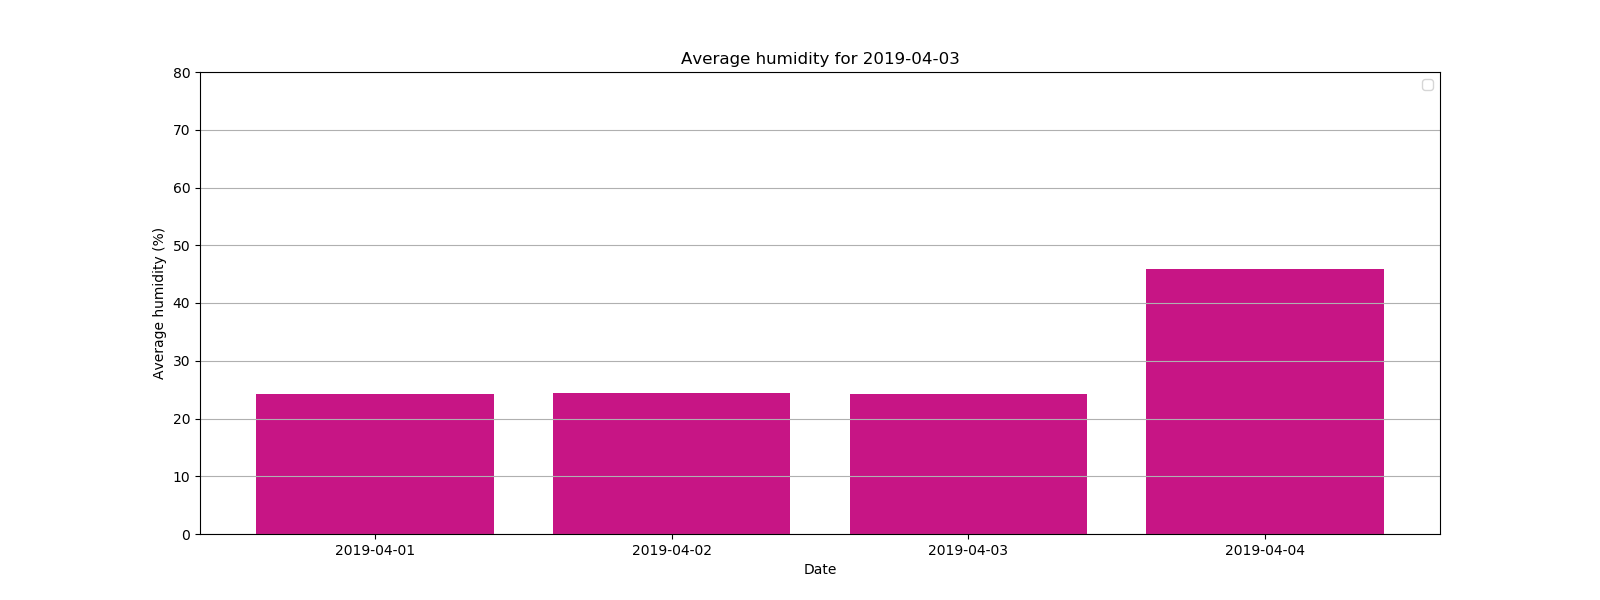
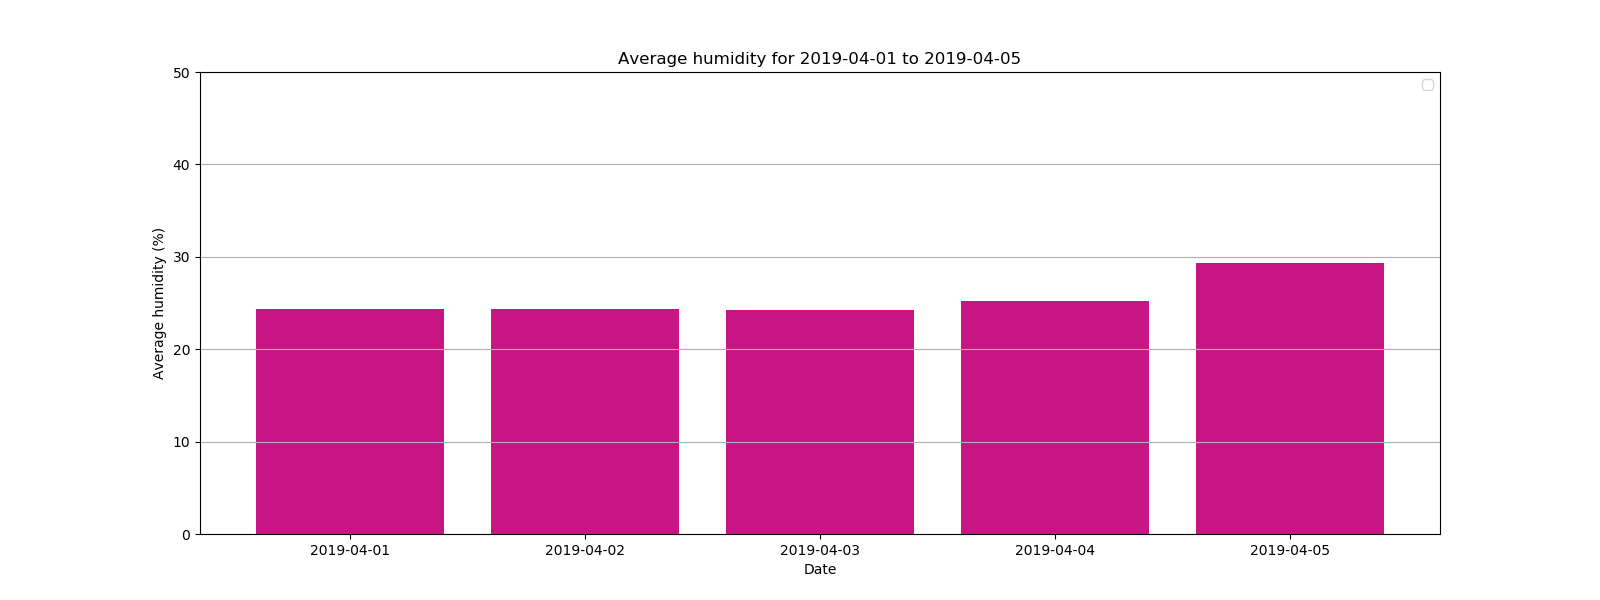
Fix bugs analytics.py
The Bokeh graphs were generated wrong for some strange reasons.

diff --git a/TemperaturePlot.html b/TemperaturePlot.html
@@ -35,14 +35,14 @@
           
           
             
-              <div class="bk-root" id="2346ce27-380c-4c90-b781-9f3c9e9352e3" data-root-id="1002"></div>
+              <div class="bk-root" id="b69190da-4fe5-41ce-8f5e-b45b0c71e5a8" data-root-id="1002"></div>
             
           
         
       
       
         <script type="application/json" id="1323">
-          {"60678b93-6dfc-4e05-99c6-5ec13dd11da1":{"roots":{"references":[{"attributes":{},"id":"1025","type":"SaveTool"},{"attributes":{"months":[0,2,4,6,8,10]},"id":"1057","type":"MonthsTicker"},{"attributes":{"line_color":"#1f77b4","line_width":2,"x":{"field":"x"},"y":{"field":"y"}},"id":"1040","type":"Line"},{"attributes":{},"id":"1026","type":"ResetTool"},{"attributes":{"months":[0,4,8]},"id":"1058","type":"MonthsTicker"},{"attributes":{},"id":"1027","type":"HelpTool"},{"attributes":{"callback":null},"id":"1004","type":"DataRange1d"},{"attributes":{"months":[0,6]},"id":"1059","type":"MonthsTicker"},{"attributes":{"callback":null},"id":"1006","type":"DataRange1d"},{"attributes":{"active_drag":"auto","active_inspect":"auto","active_multi":null,"active_scroll":"auto","active_tap":"auto","tools":[{"id":"1022","type":"PanTool"},{"id":"1023","type":"WheelZoomTool"},{"id":"1024","type":"BoxZoomTool"},{"id":"1025","type":"SaveTool"},{"id":"1026","type":"ResetTool"},{"id":"1027","type":"HelpTool"}]},"id":"1028","type":"Toolbar"},{"attributes":{},"id":"1060","type":"YearsTicker"},{"attributes":{"line_alpha":0.1,"line_color":"#1f77b4","line_width":2,"x":{"field":"x"},"y":{"field":"y"}},"id":"1041","type":"Line"},{"attributes":{},"id":"1105","type":"UnionRenderers"},{"attributes":{"mantissas":[1,2,5],"max_interval":500.0,"num_minor_ticks":0},"id":"1061","type":"AdaptiveTicker"},{"attributes":{"bottom_units":"screen","fill_alpha":{"value":0.5},"fill_color":{"value":"lightgrey"},"left_units":"screen","level":"overlay","line_alpha":{"value":1.0},"line_color":{"value":"black"},"line_dash":[4,4],"line_width":{"value":2},"plot":null,"render_mode":"css","right_units":"screen","top_units":"screen"},"id":"1030","type":"BoxAnnotation"},{"attributes":{},"id":"1008","type":"LinearScale"},{"attributes":{},"id":"1010","type":"LinearScale"},{"attributes":{"base":60,"mantissas":[1,2,5,10,15,20,30],"max_interval":1800000.0,"min_interval":1000.0,"num_minor_ticks":0},"id":"1062","type":"AdaptiveTicker"},{"attributes":{"data_source":{"id":"1039","type":"ColumnDataSource"},"glyph":{"id":"1040","type":"Line"},"hover_glyph":null,"muted_glyph":null,"nonselection_glyph":{"id":"1041","type":"Line"},"selection_glyph":null,"view":{"id":"1043","type":"CDSView"}},"id":"1042","type":"GlyphRenderer"},{"attributes":{"axis_label":"Temperature (*C)","formatter":{"id":"1047","type":"BasicTickFormatter"},"plot":{"id":"1002","subtype":"Figure","type":"Plot"},"ticker":{"id":"1018","type":"BasicTicker"}},"id":"1017","type":"LinearAxis"},{"attributes":{"axis_label":"Time","formatter":{"id":"1045","type":"DatetimeTickFormatter"},"plot":{"id":"1002","subtype":"Figure","type":"Plot"},"ticker":{"id":"1037","type":"DatetimeTicker"}},"id":"1012","type":"DatetimeAxis"},{"attributes":{"base":24,"mantissas":[1,2,4,6,8,12],"max_interval":43200000.0,"min_interval":3600000.0,"num_minor_ticks":0},"id":"1063","type":"AdaptiveTicker"},{"attributes":{"source":{"id":"1039","type":"ColumnDataSource"}},"id":"1043","type":"CDSView"},{"attributes":{"num_minor_ticks":5,"tickers":[{"id":"1061","type":"AdaptiveTicker"},{"id":"1062","type":"AdaptiveTicker"},{"id":"1063","type":"AdaptiveTicker"},{"id":"1064","type":"DaysTicker"},{"id":"1065","type":"DaysTicker"},{"id":"1066","type":"DaysTicker"},{"id":"1067","type":"DaysTicker"},{"id":"1068","type":"MonthsTicker"},{"id":"1069","type":"MonthsTicker"},{"id":"1070","type":"MonthsTicker"},{"id":"1071","type":"MonthsTicker"},{"id":"1072","type":"YearsTicker"}]},"id":"1013","type":"DatetimeTicker"},{"attributes":{"days":[1,2,3,4,5,6,7,8,9,10,11,12,13,14,15,16,17,18,19,20,21,22,23,24,25,26,27,28,29,30,31]},"id":"1064","type":"DaysTicker"},{"attributes":{},"id":"1045","type":"DatetimeTickFormatter"},{"attributes":{"items":[{"id":"1074","type":"LegendItem"}],"plot":{"id":"1002","subtype":"Figure","type":"Plot"}},"id":"1073","type":"Legend"},{"attributes":{"days":[1,4,7,10,13,16,19,22,25,28]},"id":"1065","type":"DaysTicker"},{"attributes":{},"id":"1047","type":"BasicTickFormatter"},{"attributes":{"days":[1,15]},"id":"1055","type":"DaysTicker"},{"attributes":{"plot":{"id":"1002","subtype":"Figure","type":"Plot"},"ticker":{"id":"1013","type":"DatetimeTicker"}},"id":"1016","type":"Grid"},{"attributes":{"days":[1,8,15,22]},"id":"1066","type":"DaysTicker"},{"attributes":{"mantissas":[1,2,5],"max_interval":500.0,"num_minor_ticks":0},"id":"1049","type":"AdaptiveTicker"},{"attributes":{},"id":"1018","type":"BasicTicker"},{"attributes":{"days":[1,15]},"id":"1067","type":"DaysTicker"},{"attributes":{"base":60,"mantissas":[1,2,5,10,15,20,30],"max_interval":1800000.0,"min_interval":1000.0,"num_minor_ticks":0},"id":"1050","type":"AdaptiveTicker"},{"attributes":{"dimension":1,"plot":{"id":"1002","subtype":"Figure","type":"Plot"},"ticker":{"id":"1018","type":"BasicTicker"}},"id":"1021","type":"Grid"},{"attributes":{"months":[0,1,2,3,4,5,6,7,8,9,10,11]},"id":"1068","type":"MonthsTicker"},{"attributes":{},"id":"1104","type":"Selection"},{"attributes":{"base":24,"mantissas":[1,2,4,6,8,12],"max_interval":43200000.0,"min_interval":3600000.0,"num_minor_ticks":0},"id":"1051","type":"AdaptiveTicker"},{"attributes":{"months":[0,2,4,6,8,10]},"id":"1069","type":"MonthsTicker"},{"attributes":{"label":{"value":"Temperature"},"renderers":[{"id":"1042","type":"GlyphRenderer"}]},"id":"1074","type":"LegendItem"},{"attributes":{"callback":null,"data":{"x":[30635.31,3613710.801,39613475.917,43218231.655,46822681.92,50426838.121,54031435.564,57636356.785,61240741.645,64845275.075,68450129.599,75647026.644],"y":[48.83,49.07,46.27,48.92,48.51,49.13,49.84,48.47,49.84,51.29,48.45,51.08]},"selected":{"id":"1104","type":"Selection"},"selection_policy":{"id":"1105","type":"UnionRenderers"}},"id":"1039","type":"ColumnDataSource"},{"attributes":{"days":[1,2,3,4,5,6,7,8,9,10,11,12,13,14,15,16,17,18,19,20,21,22,23,24,25,26,27,28,29,30,31]},"id":"1052","type":"DaysTicker"},{"attributes":{"months":[0,4,8]},"id":"1070","type":"MonthsTicker"},{"attributes":{"days":[1,4,7,10,13,16,19,22,25,28]},"id":"1053","type":"DaysTicker"},{"attributes":{"desired_num_ticks":24,"tickers":[{"id":"1049","type":"AdaptiveTicker"},{"id":"1050","type":"AdaptiveTicker"},{"id":"1051","type":"AdaptiveTicker"},{"id":"1052","type":"DaysTicker"},{"id":"1053","type":"DaysTicker"},{"id":"1054","type":"DaysTicker"},{"id":"1055","type":"DaysTicker"},{"id":"1056","type":"MonthsTicker"},{"id":"1057","type":"MonthsTicker"},{"id":"1058","type":"MonthsTicker"},{"id":"1059","type":"MonthsTicker"},{"id":"1060","type":"YearsTicker"}]},"id":"1037","type":"DatetimeTicker"},{"attributes":{"months":[0,6]},"id":"1071","type":"MonthsTicker"},{"attributes":{},"id":"1022","type":"PanTool"},{"attributes":{"below":[{"id":"1012","type":"DatetimeAxis"}],"left":[{"id":"1017","type":"LinearAxis"}],"plot_width":1200,"renderers":[{"id":"1012","type":"DatetimeAxis"},{"id":"1016","type":"Grid"},{"id":"1017","type":"LinearAxis"},{"id":"1021","type":"Grid"},{"id":"1030","type":"BoxAnnotation"},{"id":"1073","type":"Legend"},{"id":"1042","type":"GlyphRenderer"}],"title":{"id":"1001","type":"Title"},"toolbar":{"id":"1028","type":"Toolbar"},"x_range":{"id":"1004","type":"DataRange1d"},"x_scale":{"id":"1008","type":"LinearScale"},"y_range":{"id":"1006","type":"DataRange1d"},"y_scale":{"id":"1010","type":"LinearScale"}},"id":"1002","subtype":"Figure","type":"Plot"},{"attributes":{"days":[1,8,15,22]},"id":"1054","type":"DaysTicker"},{"attributes":{},"id":"1072","type":"YearsTicker"},{"attributes":{},"id":"1023","type":"WheelZoomTool"},{"attributes":{"plot":null,"text":"Temperature for 2019-04-03"},"id":"1001","type":"Title"},{"attributes":{"overlay":{"id":"1030","type":"BoxAnnotation"}},"id":"1024","type":"BoxZoomTool"},{"attributes":{"months":[0,1,2,3,4,5,6,7,8,9,10,11]},"id":"1056","type":"MonthsTicker"}],"root_ids":["1002"]},"title":"Bokeh Application","version":"1.0.4"}}
+          {"9a07668c-2317-41b9-8345-19de139a06cf":{"roots":{"references":[{"attributes":{"months":[0,4,8]},"id":"1058","type":"MonthsTicker"},{"attributes":{},"id":"1026","type":"ResetTool"},{"attributes":{"callback":null},"id":"1004","type":"DataRange1d"},{"attributes":{"months":[0,6]},"id":"1059","type":"MonthsTicker"},{"attributes":{},"id":"1018","type":"BasicTicker"},{"attributes":{},"id":"1027","type":"HelpTool"},{"attributes":{"callback":null,"end":70,"start":0},"id":"1006","type":"DataRange1d"},{"attributes":{},"id":"1060","type":"YearsTicker"},{"attributes":{"active_drag":"auto","active_inspect":"auto","active_multi":null,"active_scroll":"auto","active_tap":"auto","tools":[{"id":"1022","type":"PanTool"},{"id":"1023","type":"WheelZoomTool"},{"id":"1024","type":"BoxZoomTool"},{"id":"1025","type":"SaveTool"},{"id":"1026","type":"ResetTool"},{"id":"1027","type":"HelpTool"}]},"id":"1028","type":"Toolbar"},{"attributes":{},"id":"1104","type":"UnionRenderers"},{"attributes":{"line_alpha":0.1,"line_color":"#1f77b4","line_width":2,"x":{"field":"x"},"y":{"field":"y"}},"id":"1041","type":"Line"},{"attributes":{"mantissas":[1,2,5],"max_interval":500.0,"num_minor_ticks":0},"id":"1061","type":"AdaptiveTicker"},{"attributes":{},"id":"1105","type":"Selection"},{"attributes":{},"id":"1008","type":"LinearScale"},{"attributes":{"bottom_units":"screen","fill_alpha":{"value":0.5},"fill_color":{"value":"lightgrey"},"left_units":"screen","level":"overlay","line_alpha":{"value":1.0},"line_color":{"value":"black"},"line_dash":[4,4],"line_width":{"value":2},"plot":null,"render_mode":"css","right_units":"screen","top_units":"screen"},"id":"1030","type":"BoxAnnotation"},{"attributes":{"mantissas":[1,2,5],"max_interval":500.0,"num_minor_ticks":0},"id":"1049","type":"AdaptiveTicker"},{"attributes":{},"id":"1010","type":"LinearScale"},{"attributes":{"base":60,"mantissas":[1,2,5,10,15,20,30],"max_interval":1800000.0,"min_interval":1000.0,"num_minor_ticks":0},"id":"1062","type":"AdaptiveTicker"},{"attributes":{"data_source":{"id":"1039","type":"ColumnDataSource"},"glyph":{"id":"1040","type":"Line"},"hover_glyph":null,"muted_glyph":null,"nonselection_glyph":{"id":"1041","type":"Line"},"selection_glyph":null,"view":{"id":"1043","type":"CDSView"}},"id":"1042","type":"GlyphRenderer"},{"attributes":{"axis_label":"Time","formatter":{"id":"1047","type":"DatetimeTickFormatter"},"plot":{"id":"1002","subtype":"Figure","type":"Plot"},"ticker":{"id":"1037","type":"DatetimeTicker"}},"id":"1012","type":"DatetimeAxis"},{"attributes":{"base":24,"mantissas":[1,2,4,6,8,12],"max_interval":43200000.0,"min_interval":3600000.0,"num_minor_ticks":0},"id":"1063","type":"AdaptiveTicker"},{"attributes":{"source":{"id":"1039","type":"ColumnDataSource"}},"id":"1043","type":"CDSView"},{"attributes":{"num_minor_ticks":5,"tickers":[{"id":"1061","type":"AdaptiveTicker"},{"id":"1062","type":"AdaptiveTicker"},{"id":"1063","type":"AdaptiveTicker"},{"id":"1064","type":"DaysTicker"},{"id":"1065","type":"DaysTicker"},{"id":"1066","type":"DaysTicker"},{"id":"1067","type":"DaysTicker"},{"id":"1068","type":"MonthsTicker"},{"id":"1069","type":"MonthsTicker"},{"id":"1070","type":"MonthsTicker"},{"id":"1071","type":"MonthsTicker"},{"id":"1072","type":"YearsTicker"}]},"id":"1013","type":"DatetimeTicker"},{"attributes":{"days":[1,2,3,4,5,6,7,8,9,10,11,12,13,14,15,16,17,18,19,20,21,22,23,24,25,26,27,28,29,30,31]},"id":"1064","type":"DaysTicker"},{"attributes":{"label":{"value":"Temperature"},"renderers":[{"id":"1042","type":"GlyphRenderer"}]},"id":"1074","type":"LegendItem"},{"attributes":{},"id":"1045","type":"BasicTickFormatter"},{"attributes":{"days":[1,4,7,10,13,16,19,22,25,28]},"id":"1065","type":"DaysTicker"},{"attributes":{"plot":{"id":"1002","subtype":"Figure","type":"Plot"},"ticker":{"id":"1013","type":"DatetimeTicker"}},"id":"1016","type":"Grid"},{"attributes":{},"id":"1047","type":"DatetimeTickFormatter"},{"attributes":{"days":[1,8,15,22]},"id":"1066","type":"DaysTicker"},{"attributes":{"axis_label":"Temperature (*C)","formatter":{"id":"1045","type":"BasicTickFormatter"},"plot":{"id":"1002","subtype":"Figure","type":"Plot"},"ticker":{"id":"1018","type":"BasicTicker"}},"id":"1017","type":"LinearAxis"},{"attributes":{"days":[1,15]},"id":"1067","type":"DaysTicker"},{"attributes":{"base":60,"mantissas":[1,2,5,10,15,20,30],"max_interval":1800000.0,"min_interval":1000.0,"num_minor_ticks":0},"id":"1050","type":"AdaptiveTicker"},{"attributes":{"dimension":1,"plot":{"id":"1002","subtype":"Figure","type":"Plot"},"ticker":{"id":"1018","type":"BasicTicker"}},"id":"1021","type":"Grid"},{"attributes":{"months":[0,1,2,3,4,5,6,7,8,9,10,11]},"id":"1068","type":"MonthsTicker"},{"attributes":{"base":24,"mantissas":[1,2,4,6,8,12],"max_interval":43200000.0,"min_interval":3600000.0,"num_minor_ticks":0},"id":"1051","type":"AdaptiveTicker"},{"attributes":{"months":[0,2,4,6,8,10]},"id":"1069","type":"MonthsTicker"},{"attributes":{"callback":null,"data":{"x":[30635.31,3613710.801,39613475.917,43218231.655,46822681.92,50426838.121,54031435.564,57636356.785,61240741.645,64845275.075,68450129.599,75647026.644],"y":[48.83,49.07,46.27,48.92,48.51,49.13,49.84,48.47,49.84,51.29,48.45,51.08]},"selected":{"id":"1105","type":"Selection"},"selection_policy":{"id":"1104","type":"UnionRenderers"}},"id":"1039","type":"ColumnDataSource"},{"attributes":{"days":[1,2,3,4,5,6,7,8,9,10,11,12,13,14,15,16,17,18,19,20,21,22,23,24,25,26,27,28,29,30,31]},"id":"1052","type":"DaysTicker"},{"attributes":{"months":[0,4,8]},"id":"1070","type":"MonthsTicker"},{"attributes":{"months":[0,2,4,6,8,10]},"id":"1057","type":"MonthsTicker"},{"attributes":{"days":[1,4,7,10,13,16,19,22,25,28]},"id":"1053","type":"DaysTicker"},{"attributes":{"desired_num_ticks":24,"tickers":[{"id":"1049","type":"AdaptiveTicker"},{"id":"1050","type":"AdaptiveTicker"},{"id":"1051","type":"AdaptiveTicker"},{"id":"1052","type":"DaysTicker"},{"id":"1053","type":"DaysTicker"},{"id":"1054","type":"DaysTicker"},{"id":"1055","type":"DaysTicker"},{"id":"1056","type":"MonthsTicker"},{"id":"1057","type":"MonthsTicker"},{"id":"1058","type":"MonthsTicker"},{"id":"1059","type":"MonthsTicker"},{"id":"1060","type":"YearsTicker"}]},"id":"1037","type":"DatetimeTicker"},{"attributes":{"months":[0,6]},"id":"1071","type":"MonthsTicker"},{"attributes":{"below":[{"id":"1012","type":"DatetimeAxis"}],"left":[{"id":"1017","type":"LinearAxis"}],"plot_width":1200,"renderers":[{"id":"1012","type":"DatetimeAxis"},{"id":"1016","type":"Grid"},{"id":"1017","type":"LinearAxis"},{"id":"1021","type":"Grid"},{"id":"1030","type":"BoxAnnotation"},{"id":"1073","type":"Legend"},{"id":"1042","type":"GlyphRenderer"}],"title":{"id":"1001","type":"Title"},"toolbar":{"id":"1028","type":"Toolbar"},"x_range":{"id":"1004","type":"DataRange1d"},"x_scale":{"id":"1008","type":"LinearScale"},"y_range":{"id":"1006","type":"DataRange1d"},"y_scale":{"id":"1010","type":"LinearScale"}},"id":"1002","subtype":"Figure","type":"Plot"},{"attributes":{},"id":"1022","type":"PanTool"},{"attributes":{"days":[1,8,15,22]},"id":"1054","type":"DaysTicker"},{"attributes":{},"id":"1072","type":"YearsTicker"},{"attributes":{"plot":null,"text":"Temperature for 2019-04-03"},"id":"1001","type":"Title"},{"attributes":{},"id":"1023","type":"WheelZoomTool"},{"attributes":{"days":[1,15]},"id":"1055","type":"DaysTicker"},{"attributes":{"items":[{"id":"1074","type":"LegendItem"}],"plot":{"id":"1002","subtype":"Figure","type":"Plot"}},"id":"1073","type":"Legend"},{"attributes":{"overlay":{"id":"1030","type":"BoxAnnotation"}},"id":"1024","type":"BoxZoomTool"},{"attributes":{"months":[0,1,2,3,4,5,6,7,8,9,10,11]},"id":"1056","type":"MonthsTicker"},{"attributes":{},"id":"1025","type":"SaveTool"},{"attributes":{"line_color":"#1f77b4","line_width":2,"x":{"field":"x"},"y":{"field":"y"}},"id":"1040","type":"Line"}],"root_ids":["1002"]},"title":"Bokeh Application","version":"1.0.4"}}
         </script>
         <script type="text/javascript">
           (function() {
@@ -52,7 +52,7 @@
                   function embed_document(root) {
                     
                   var docs_json = document.getElementById('1323').textContent;
-                  var render_items = [{"docid":"60678b93-6dfc-4e05-99c6-5ec13dd11da1","roots":{"1002":"2346ce27-380c-4c90-b781-9f3c9e9352e3"}}];
+                  var render_items = [{"docid":"9a07668c-2317-41b9-8345-19de139a06cf","roots":{"1002":"b69190da-4fe5-41ce-8f5e-b45b0c71e5a8"}}];
                   root.Bokeh.embed.embed_items(docs_json, render_items);
                 
                   }

diff --git a/HumidityPlot.html b/HumidityPlot.html
@@ -35,14 +35,14 @@
           
           
             
-              <div class="bk-root" id="ca228da3-1507-4d43-ada8-d50b06c536f7" data-root-id="1325"></div>
+              <div class="bk-root" id="c2b68f81-1bbe-406d-8262-b2b26e329158" data-root-id="1731"></div>
             
           
         
       
       
-        <script type="application/json" id="1646">
-          {"3e7ccebf-9381-4dd2-8964-d3b6dc68484b":{"roots":{"references":[{"attributes":{},"id":"1341","type":"BasicTicker"},{"attributes":{"days":[1,8,15,22]},"id":"1377","type":"DaysTicker"},{"attributes":{"base":60,"mantissas":[1,2,5,10,15,20,30],"max_interval":1800000.0,"min_interval":1000.0,"num_minor_ticks":0},"id":"1373","type":"AdaptiveTicker"},{"attributes":{"days":[1,15]},"id":"1378","type":"DaysTicker"},{"attributes":{"months":[0,6]},"id":"1394","type":"MonthsTicker"},{"attributes":{"axis_label":"Humidity (%)","formatter":{"id":"1370","type":"BasicTickFormatter"},"plot":{"id":"1325","subtype":"Figure","type":"Plot"},"ticker":{"id":"1341","type":"BasicTicker"}},"id":"1340","type":"LinearAxis"},{"attributes":{"months":[0,1,2,3,4,5,6,7,8,9,10,11]},"id":"1379","type":"MonthsTicker"},{"attributes":{"num_minor_ticks":5,"tickers":[{"id":"1384","type":"AdaptiveTicker"},{"id":"1385","type":"AdaptiveTicker"},{"id":"1386","type":"AdaptiveTicker"},{"id":"1387","type":"DaysTicker"},{"id":"1388","type":"DaysTicker"},{"id":"1389","type":"DaysTicker"},{"id":"1390","type":"DaysTicker"},{"id":"1391","type":"MonthsTicker"},{"id":"1392","type":"MonthsTicker"},{"id":"1393","type":"MonthsTicker"},{"id":"1394","type":"MonthsTicker"},{"id":"1395","type":"YearsTicker"}]},"id":"1336","type":"DatetimeTicker"},{"attributes":{"months":[0,4,8]},"id":"1393","type":"MonthsTicker"},{"attributes":{"base":24,"mantissas":[1,2,4,6,8,12],"max_interval":43200000.0,"min_interval":3600000.0,"num_minor_ticks":0},"id":"1374","type":"AdaptiveTicker"},{"attributes":{},"id":"1428","type":"UnionRenderers"},{"attributes":{"desired_num_ticks":24,"tickers":[{"id":"1372","type":"AdaptiveTicker"},{"id":"1373","type":"AdaptiveTicker"},{"id":"1374","type":"AdaptiveTicker"},{"id":"1375","type":"DaysTicker"},{"id":"1376","type":"DaysTicker"},{"id":"1377","type":"DaysTicker"},{"id":"1378","type":"DaysTicker"},{"id":"1379","type":"MonthsTicker"},{"id":"1380","type":"MonthsTicker"},{"id":"1381","type":"MonthsTicker"},{"id":"1382","type":"MonthsTicker"},{"id":"1383","type":"YearsTicker"}]},"id":"1360","type":"DatetimeTicker"},{"attributes":{"months":[0,2,4,6,8,10]},"id":"1392","type":"MonthsTicker"},{"attributes":{},"id":"1345","type":"PanTool"},{"attributes":{"months":[0,4,8]},"id":"1381","type":"MonthsTicker"},{"attributes":{"line_alpha":0.1,"line_color":"#1f77b4","line_width":2,"x":{"field":"x"},"y":{"field":"y"}},"id":"1364","type":"Line"},{"attributes":{"months":[0,1,2,3,4,5,6,7,8,9,10,11]},"id":"1391","type":"MonthsTicker"},{"attributes":{},"id":"1346","type":"WheelZoomTool"},{"attributes":{"callback":null},"id":"1329","type":"DataRange1d"},{"attributes":{"months":[0,6]},"id":"1382","type":"MonthsTicker"},{"attributes":{"days":[1,15]},"id":"1390","type":"DaysTicker"},{"attributes":{"base":24,"mantissas":[1,2,4,6,8,12],"max_interval":43200000.0,"min_interval":3600000.0,"num_minor_ticks":0},"id":"1386","type":"AdaptiveTicker"},{"attributes":{},"id":"1383","type":"YearsTicker"},{"attributes":{"days":[1,8,15,22]},"id":"1389","type":"DaysTicker"},{"attributes":{"plot":null,"text":"Humidity for 2019-04-03"},"id":"1324","type":"Title"},{"attributes":{"mantissas":[1,2,5],"max_interval":500.0,"num_minor_ticks":0},"id":"1384","type":"AdaptiveTicker"},{"attributes":{"active_drag":"auto","active_inspect":"auto","active_multi":null,"active_scroll":"auto","active_tap":"auto","tools":[{"id":"1345","type":"PanTool"},{"id":"1346","type":"WheelZoomTool"},{"id":"1347","type":"BoxZoomTool"},{"id":"1348","type":"SaveTool"},{"id":"1349","type":"ResetTool"},{"id":"1350","type":"HelpTool"}]},"id":"1351","type":"Toolbar"},{"attributes":{"days":[1,4,7,10,13,16,19,22,25,28]},"id":"1388","type":"DaysTicker"},{"attributes":{},"id":"1331","type":"LinearScale"},{"attributes":{},"id":"1349","type":"ResetTool"},{"attributes":{"base":60,"mantissas":[1,2,5,10,15,20,30],"max_interval":1800000.0,"min_interval":1000.0,"num_minor_ticks":0},"id":"1385","type":"AdaptiveTicker"},{"attributes":{},"id":"1350","type":"HelpTool"},{"attributes":{"axis_label":"Time","formatter":{"id":"1368","type":"DatetimeTickFormatter"},"plot":{"id":"1325","subtype":"Figure","type":"Plot"},"ticker":{"id":"1360","type":"DatetimeTicker"}},"id":"1335","type":"DatetimeAxis"},{"attributes":{},"id":"1348","type":"SaveTool"},{"attributes":{"months":[0,2,4,6,8,10]},"id":"1380","type":"MonthsTicker"},{"attributes":{},"id":"1427","type":"Selection"},{"attributes":{},"id":"1333","type":"LinearScale"},{"attributes":{"overlay":{"id":"1353","type":"BoxAnnotation"}},"id":"1347","type":"BoxZoomTool"},{"attributes":{"days":[1,2,3,4,5,6,7,8,9,10,11,12,13,14,15,16,17,18,19,20,21,22,23,24,25,26,27,28,29,30,31]},"id":"1387","type":"DaysTicker"},{"attributes":{"bottom_units":"screen","fill_alpha":{"value":0.5},"fill_color":{"value":"lightgrey"},"left_units":"screen","level":"overlay","line_alpha":{"value":1.0},"line_color":{"value":"black"},"line_dash":[4,4],"line_width":{"value":2},"plot":null,"render_mode":"css","right_units":"screen","top_units":"screen"},"id":"1353","type":"BoxAnnotation"},{"attributes":{"line_color":"#1f77b4","line_width":2,"x":{"field":"x"},"y":{"field":"y"}},"id":"1363","type":"Line"},{"attributes":{},"id":"1395","type":"YearsTicker"},{"attributes":{"label":{"value":"Humidity"},"renderers":[{"id":"1365","type":"GlyphRenderer"}]},"id":"1397","type":"LegendItem"},{"attributes":{"data_source":{"id":"1362","type":"ColumnDataSource"},"glyph":{"id":"1363","type":"Line"},"hover_glyph":null,"muted_glyph":null,"nonselection_glyph":{"id":"1364","type":"Line"},"selection_glyph":null,"view":{"id":"1366","type":"CDSView"}},"id":"1365","type":"GlyphRenderer"},{"attributes":{"days":[1,4,7,10,13,16,19,22,25,28]},"id":"1376","type":"DaysTicker"},{"attributes":{"days":[1,2,3,4,5,6,7,8,9,10,11,12,13,14,15,16,17,18,19,20,21,22,23,24,25,26,27,28,29,30,31]},"id":"1375","type":"DaysTicker"},{"attributes":{"callback":null},"id":"1327","type":"DataRange1d"},{"attributes":{"below":[{"id":"1335","type":"DatetimeAxis"}],"left":[{"id":"1340","type":"LinearAxis"}],"plot_width":1200,"renderers":[{"id":"1335","type":"DatetimeAxis"},{"id":"1339","type":"Grid"},{"id":"1340","type":"LinearAxis"},{"id":"1344","type":"Grid"},{"id":"1353","type":"BoxAnnotation"},{"id":"1396","type":"Legend"},{"id":"1365","type":"GlyphRenderer"}],"title":{"id":"1324","type":"Title"},"toolbar":{"id":"1351","type":"Toolbar"},"x_range":{"id":"1327","type":"DataRange1d"},"x_scale":{"id":"1331","type":"LinearScale"},"y_range":{"id":"1329","type":"DataRange1d"},"y_scale":{"id":"1333","type":"LinearScale"}},"id":"1325","subtype":"Figure","type":"Plot"},{"attributes":{"items":[{"id":"1397","type":"LegendItem"}],"plot":{"id":"1325","subtype":"Figure","type":"Plot"}},"id":"1396","type":"Legend"},{"attributes":{"source":{"id":"1362","type":"ColumnDataSource"}},"id":"1366","type":"CDSView"},{"attributes":{"mantissas":[1,2,5],"max_interval":500.0,"num_minor_ticks":0},"id":"1372","type":"AdaptiveTicker"},{"attributes":{"callback":null,"data":{"x":[30635.31,3613710.801,39613475.917,43218231.655,46822681.92,50426838.121,54031435.564,57636356.785,61240741.645,64845275.075,68450129.599,75647026.644],"y":[23.04,22.95,24.7,24.41,23.13,23.61,22.87,24.86,24.84,24.41,24.77,25.06]},"selected":{"id":"1427","type":"Selection"},"selection_policy":{"id":"1428","type":"UnionRenderers"}},"id":"1362","type":"ColumnDataSource"},{"attributes":{"plot":{"id":"1325","subtype":"Figure","type":"Plot"},"ticker":{"id":"1336","type":"DatetimeTicker"}},"id":"1339","type":"Grid"},{"attributes":{},"id":"1370","type":"BasicTickFormatter"},{"attributes":{"dimension":1,"plot":{"id":"1325","subtype":"Figure","type":"Plot"},"ticker":{"id":"1341","type":"BasicTicker"}},"id":"1344","type":"Grid"},{"attributes":{},"id":"1368","type":"DatetimeTickFormatter"}],"root_ids":["1325"]},"title":"Bokeh Application","version":"1.0.4"}}
+        <script type="application/json" id="1812">
+          {"988f1c64-4d16-4c2d-962a-67be20c608c6":{"roots":{"references":[{"attributes":{"below":[{"id":"1741","type":"CategoricalAxis"}],"left":[{"id":"1745","type":"LinearAxis"}],"plot_height":400,"renderers":[{"id":"1741","type":"CategoricalAxis"},{"id":"1744","type":"Grid"},{"id":"1745","type":"LinearAxis"},{"id":"1749","type":"Grid"},{"id":"1754","type":"GlyphRenderer"}],"title":{"id":"1730","type":"Title"},"toolbar":{"id":"1750","type":"Toolbar"},"toolbar_location":null,"x_range":{"id":"1733","type":"FactorRange"},"x_scale":{"id":"1737","type":"CategoricalScale"},"y_range":{"id":"1735","type":"DataRange1d"},"y_scale":{"id":"1739","type":"LinearScale"}},"id":"1731","subtype":"Figure","type":"Plot"},{"attributes":{"plot":null,"text":"Average temperature for 2019-04-01 to 2019-04-05"},"id":"1730","type":"Title"},{"attributes":{},"id":"1746","type":"BasicTicker"},{"attributes":{},"id":"1742","type":"CategoricalTicker"},{"attributes":{"axis_label":"Average temperature (*C)","formatter":{"id":"1757","type":"BasicTickFormatter"},"plot":{"id":"1731","subtype":"Figure","type":"Plot"},"ticker":{"id":"1746","type":"BasicTicker"}},"id":"1745","type":"LinearAxis"},{"attributes":{},"id":"1761","type":"UnionRenderers"},{"attributes":{"active_drag":"auto","active_inspect":"auto","active_multi":null,"active_scroll":"auto","active_tap":"auto"},"id":"1750","type":"Toolbar"},{"attributes":{"axis_label":"Date","formatter":{"id":"1759","type":"CategoricalTickFormatter"},"plot":{"id":"1731","subtype":"Figure","type":"Plot"},"ticker":{"id":"1742","type":"CategoricalTicker"}},"id":"1741","type":"CategoricalAxis"},{"attributes":{},"id":"1762","type":"Selection"},{"attributes":{},"id":"1737","type":"CategoricalScale"},{"attributes":{"callback":null,"factors":["2019-04-01","2019-04-02","2019-04-03","2019-04-04","2019-04-05"]},"id":"1733","type":"FactorRange"},{"attributes":{"fill_color":{"value":"#1f77b4"},"line_color":{"value":"#1f77b4"},"top":{"field":"top"},"width":{"value":0.9},"x":{"field":"x"}},"id":"1752","type":"VBar"},{"attributes":{},"id":"1757","type":"BasicTickFormatter"},{"attributes":{"fill_alpha":{"value":0.1},"fill_color":{"value":"#1f77b4"},"line_alpha":{"value":0.1},"line_color":{"value":"#1f77b4"},"top":{"field":"top"},"width":{"value":0.9},"x":{"field":"x"}},"id":"1753","type":"VBar"},{"attributes":{"data_source":{"id":"1751","type":"ColumnDataSource"},"glyph":{"id":"1752","type":"VBar"},"hover_glyph":null,"muted_glyph":null,"nonselection_glyph":{"id":"1753","type":"VBar"},"selection_glyph":null,"view":{"id":"1755","type":"CDSView"}},"id":"1754","type":"GlyphRenderer"},{"attributes":{"dimension":1,"grid_line_color":{"value":"grey"},"plot":{"id":"1731","subtype":"Figure","type":"Plot"},"ticker":{"id":"1746","type":"BasicTicker"}},"id":"1749","type":"Grid"},{"attributes":{"plot":{"id":"1731","subtype":"Figure","type":"Plot"},"ticker":{"id":"1742","type":"CategoricalTicker"}},"id":"1744","type":"Grid"},{"attributes":{"callback":null,"data":{"top":[48.08,48.37,49.11,44.97,24.54],"x":["2019-04-01","2019-04-02","2019-04-03","2019-04-04","2019-04-05"]},"selected":{"id":"1762","type":"Selection"},"selection_policy":{"id":"1761","type":"UnionRenderers"}},"id":"1751","type":"ColumnDataSource"},{"attributes":{},"id":"1739","type":"LinearScale"},{"attributes":{},"id":"1759","type":"CategoricalTickFormatter"},{"attributes":{"source":{"id":"1751","type":"ColumnDataSource"}},"id":"1755","type":"CDSView"},{"attributes":{"callback":null,"end":70,"start":0},"id":"1735","type":"DataRange1d"}],"root_ids":["1731"]},"title":"Bokeh Application","version":"1.0.4"}}
         </script>
         <script type="text/javascript">
           (function() {
@@ -51,8 +51,8 @@
                 (function(root) {
                   function embed_document(root) {
                     
-                  var docs_json = document.getElementById('1646').textContent;
-                  var render_items = [{"docid":"3e7ccebf-9381-4dd2-8964-d3b6dc68484b","roots":{"1325":"ca228da3-1507-4d43-ada8-d50b06c536f7"}}];
+                  var docs_json = document.getElementById('1812').textContent;
+                  var render_items = [{"docid":"988f1c64-4d16-4c2d-962a-67be20c608c6","roots":{"1731":"c2b68f81-1bbe-406d-8262-b2b26e329158"}}];
                   root.Bokeh.embed.embed_items(docs_json, render_items);
                 
                   }

diff --git a/analytics.html b/analytics.html
@@ -1,0 +1,85 @@
+
+
+
+
+<!DOCTYPE html>
+<html lang="en">
+  
+  <head>
+    
+      <meta charset="utf-8">
+      <title>Bokeh Plot</title>
+      
+      
+        
+          
+        <link rel="stylesheet" href="https://cdn.pydata.org/bokeh/release/bokeh-1.0.4.min.css" type="text/css" />
+        
+        
+          
+        <script type="text/javascript" src="https://cdn.pydata.org/bokeh/release/bokeh-1.0.4.min.js"></script>
+        <script type="text/javascript">
+            Bokeh.set_log_level("info");
+        </script>
+        
+      
+      
+    
+  </head>
+  
+  
+  <body>
+    
+      
+        
+          
+          
+            
+              <div class="bk-root" id="7d8a4dee-9fa9-42c3-bff0-1845a615382a" data-root-id="1085"></div>
+            
+          
+        
+      
+      
+        <script type="application/json" id="1166">
+          {"5e4e5fcd-6794-4fe1-88ab-2e583bc6c674":{"roots":{"references":[{"attributes":{},"id":"1091","type":"CategoricalScale"},{"attributes":{},"id":"1113","type":"CategoricalTickFormatter"},{"attributes":{},"id":"1100","type":"BasicTicker"},{"attributes":{"axis_label":"Average humidity (%)","formatter":{"id":"1111","type":"BasicTickFormatter"},"plot":{"id":"1085","subtype":"Figure","type":"Plot"},"ticker":{"id":"1100","type":"BasicTicker"}},"id":"1099","type":"LinearAxis"},{"attributes":{},"id":"1111","type":"BasicTickFormatter"},{"attributes":{"callback":null,"data":{"top":[24.3,24.34,24.23,25.22,29.38],"x":["2019-04-01","2019-04-02","2019-04-03","2019-04-04","2019-04-05"]},"selected":{"id":"1115","type":"Selection"},"selection_policy":{"id":"1116","type":"UnionRenderers"}},"id":"1105","type":"ColumnDataSource"},{"attributes":{"active_drag":"auto","active_inspect":"auto","active_multi":null,"active_scroll":"auto","active_tap":"auto"},"id":"1104","type":"Toolbar"},{"attributes":{"below":[{"id":"1095","type":"CategoricalAxis"}],"left":[{"id":"1099","type":"LinearAxis"}],"plot_height":400,"renderers":[{"id":"1095","type":"CategoricalAxis"},{"id":"1098","type":"Grid"},{"id":"1099","type":"LinearAxis"},{"id":"1103","type":"Grid"},{"id":"1108","type":"GlyphRenderer"}],"title":{"id":"1084","type":"Title"},"toolbar":{"id":"1104","type":"Toolbar"},"toolbar_location":null,"x_range":{"id":"1087","type":"FactorRange"},"x_scale":{"id":"1091","type":"CategoricalScale"},"y_range":{"id":"1089","type":"DataRange1d"},"y_scale":{"id":"1093","type":"LinearScale"}},"id":"1085","subtype":"Figure","type":"Plot"},{"attributes":{"callback":null,"factors":["2019-04-01","2019-04-02","2019-04-03","2019-04-04","2019-04-05"]},"id":"1087","type":"FactorRange"},{"attributes":{"axis_label":"Date","formatter":{"id":"1113","type":"CategoricalTickFormatter"},"plot":{"id":"1085","subtype":"Figure","type":"Plot"},"ticker":{"id":"1096","type":"CategoricalTicker"}},"id":"1095","type":"CategoricalAxis"},{"attributes":{},"id":"1093","type":"LinearScale"},{"attributes":{"source":{"id":"1105","type":"ColumnDataSource"}},"id":"1109","type":"CDSView"},{"attributes":{},"id":"1116","type":"UnionRenderers"},{"attributes":{"data_source":{"id":"1105","type":"ColumnDataSource"},"glyph":{"id":"1106","type":"VBar"},"hover_glyph":null,"muted_glyph":null,"nonselection_glyph":{"id":"1107","type":"VBar"},"selection_glyph":null,"view":{"id":"1109","type":"CDSView"}},"id":"1108","type":"GlyphRenderer"},{"attributes":{"callback":null,"end":50,"start":0},"id":"1089","type":"DataRange1d"},{"attributes":{},"id":"1115","type":"Selection"},{"attributes":{},"id":"1096","type":"CategoricalTicker"},{"attributes":{"fill_alpha":{"value":0.1},"fill_color":{"value":"#1f77b4"},"line_alpha":{"value":0.1},"line_color":{"value":"#1f77b4"},"top":{"field":"top"},"width":{"value":0.9},"x":{"field":"x"}},"id":"1107","type":"VBar"},{"attributes":{"plot":{"id":"1085","subtype":"Figure","type":"Plot"},"ticker":{"id":"1096","type":"CategoricalTicker"}},"id":"1098","type":"Grid"},{"attributes":{"fill_color":{"value":"#1f77b4"},"line_color":{"value":"#1f77b4"},"top":{"field":"top"},"width":{"value":0.9},"x":{"field":"x"}},"id":"1106","type":"VBar"},{"attributes":{"plot":null,"text":"Average humidity for 2019-04-01 to 2019-04-05"},"id":"1084","type":"Title"},{"attributes":{"dimension":1,"grid_line_color":{"value":"grey"},"plot":{"id":"1085","subtype":"Figure","type":"Plot"},"ticker":{"id":"1100","type":"BasicTicker"}},"id":"1103","type":"Grid"}],"root_ids":["1085"]},"title":"Bokeh Application","version":"1.0.4"}}
+        </script>
+        <script type="text/javascript">
+          (function() {
+            var fn = function() {
+              Bokeh.safely(function() {
+                (function(root) {
+                  function embed_document(root) {
+                    
+                  var docs_json = document.getElementById('1166').textContent;
+                  var render_items = [{"docid":"5e4e5fcd-6794-4fe1-88ab-2e583bc6c674","roots":{"1085":"7d8a4dee-9fa9-42c3-bff0-1845a615382a"}}];
+                  root.Bokeh.embed.embed_items(docs_json, render_items);
+                
+                  }
+                  if (root.Bokeh !== undefined) {
+                    embed_document(root);
+                  } else {
+                    var attempts = 0;
+                    var timer = setInterval(function(root) {
+                      if (root.Bokeh !== undefined) {
+                        embed_document(root);
+                        clearInterval(timer);
+                      }
+                      attempts++;
+                      if (attempts > 100) {
+                        console.log("Bokeh: ERROR: Unable to run BokehJS code because BokehJS library is missing");
+                        clearInterval(timer);
+                      }
+                    }, 10, root)
+                  }
+                })(window);
+              });
+            };
+            if (document.readyState != "loading") fn();
+            else document.addEventListener("DOMContentLoaded", fn);
+          })();
+        </script>
+    
+  </body>
+  
+</html>

diff --git a/analytics.py b/analytics.py
@@ -17,7 +17,7 @@ class Analytics:
     def __init__(self, databaseName = 'VirtualSenseHat.db'):  # "fakeData.db"
         self.databaseName = databaseName
         self.database = Database(self.databaseName) 
-        self.currentDate = datetime.today().date() - ONE_DAY_DELTA
+        self.currentDate = datetime(2019, 4, 3).date()      #set 04/03/2019 as our default current date
 
     def prepareDataLinePlot(self, dataDate = None):
         # prepare some data
@@ -42,10 +42,11 @@ class Analytics:
         logging.debug(self.avgHumidity)
 
     def plotLineGraph(self, x_list, y_list, value, unit):
-
+        figureTitle = "{} for {}".format(value, self.dataDate.strftime(DATE_FORMAT))
+        logging.debug("Plotting {}".format(figureTitle))
         # output to static HTML file
         output_file("{}Plot.html".format(value))
-        figureTitle = "{} for {}".format(value, self.dataDate.strftime(DATE_FORMAT))
+        
         x_axis_label= 'Time'
         y_axis_label= '{} ({})'.format(value, unit)
 
@@ -56,24 +57,33 @@ class Analytics:
         p.xaxis.ticker = DatetimeTicker(desired_num_ticks = 24)
         p.line(x_list, y_list, legend=value, line_width=2)
 
+        p.y_range.start = 0
+        if unit == "*C":
+            p.y_range.end = 70
+        else:
+            p.y_range.end = 50
+
         # show the results
         show(p)
 
     def plotBarGraph(self, x_list, y_list, value, unit):
-        output_file = "{}Plot.html".format(value.title().replace(' ', ''))
         figureTitle = "{} for {} to {}".format(value, x_list[0], x_list[-1])
+        logging.debug("Plotting {}".format(figureTitle))
+        output_file = "{}Plot.html".format(value.title().replace(' ', ''))
+        
         x_axis_label='Date'
         y_axis_label='{} ({})'.format(value, unit)
         p = figure(x_range=self.date, plot_width=600, plot_height=400, title= figureTitle, x_axis_label=x_axis_label, y_axis_label=y_axis_label, toolbar_location=None, tools="")
         #x_range=self.date, x_range=FactorRange(self.date)
         #p.xaxis.ticker = days
         p.vbar(x=x_list, top=y_list, width=0.9)
-        p.xgrid.grid_line_color = None
+        p.ygrid.grid_line_color = "grey"
         p.y_range.start = 0
         if unit == "*C":
             p.y_range.end = 70
         else:
-            p.y_range.end = 70
+            p.y_range.end = 50
+
         show(p)
 
 
@@ -91,13 +101,15 @@ class Analytics:
 
 
     def plotLineMatplotlib(self, x_list, y_list, value, unit):
+        figureTitle = "{} for {}".format(value, self.dataDate.strftime(DATE_FORMAT))
+        logging.debug("Plotting {}".format(figureTitle))
         output_file = "{}Plot.png".format(value.title().replace(' ', ''))
         df=pd.DataFrame({'time': x_list, value : y_list})
- 
+        
         # plot
         figure, axes = plt.subplots(figsize=(16,6))
         axes.plot('time', value, data=df, marker='o', color='mediumvioletred')
-        plt.title("{} for {}".format(value, self.dataDate.strftime(DATE_FORMAT)))
+        plt.title(figureTitle)
         plt.xlabel("Time")
         plt.ylabel('{} ({})'.format(value, unit))
 
@@ -110,14 +122,16 @@ class Analytics:
         if unit == "*C":
             plt.ylim(0,70)
         else:
-            plt.ylim(0,70)
+            plt.ylim(0,50)
 
         plt.savefig(output_file)
         plt.show()
 
     def plotBarMatplotlib(self, x_list, y_list, value, unit):
-        output_file = "{}Plot.png".format(value.title().replace(' ', ''))
         figureTitle = "{} for {} to {}".format(value, x_list[0], x_list[-1])
+        logging.debug("Plotting {}".format(figureTitle))
+        output_file = "{}Plot.png".format(value.title().replace(' ', ''))
+        
 
         df=pd.DataFrame({'date': x_list, value : y_list})
  
@@ -134,9 +148,9 @@ class Analytics:
         plt.xticks(self.date)
         logging.debug(plt.xticks())
         if unit == "*C":
-            plt.ylim(0,50)
+            plt.ylim(0,70)
         else:
-            plt.ylim(0,80)
+            plt.ylim(0,50)
 
         plt.savefig(output_file)
         plt.show()
@@ -163,7 +177,8 @@ analytics.plotHumidityMatplotlib()
 
 
 analytics.prepareDataBarPlot()
-analytics.plotAvgTemperature()    #Using Bokeh
+
 analytics.plotAvgHumidity()       #Using Bokeh
 analytics.plotAvgTemperatureMatplotlib()
 analytics.plotAvgHumidityMatplotlib()
+analytics.plotAvgTemperature()    #Using Bokeh
